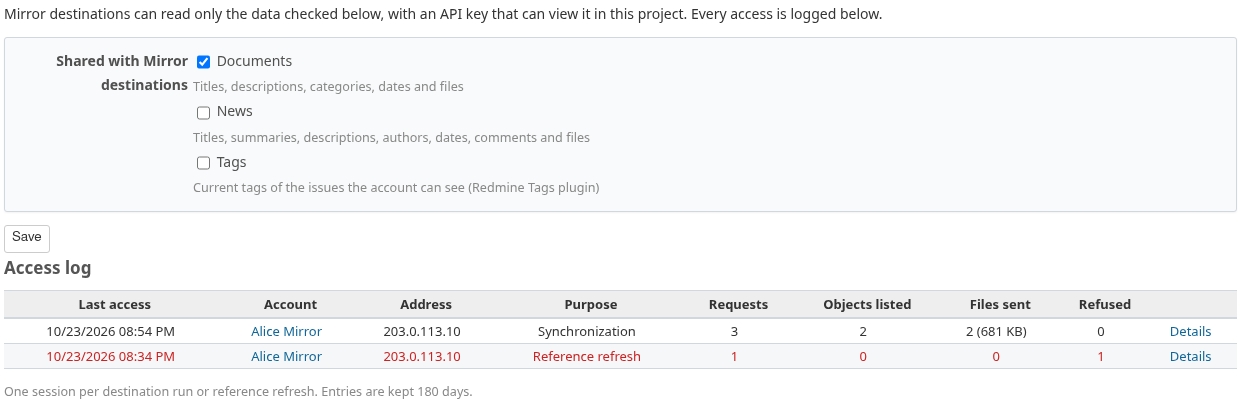
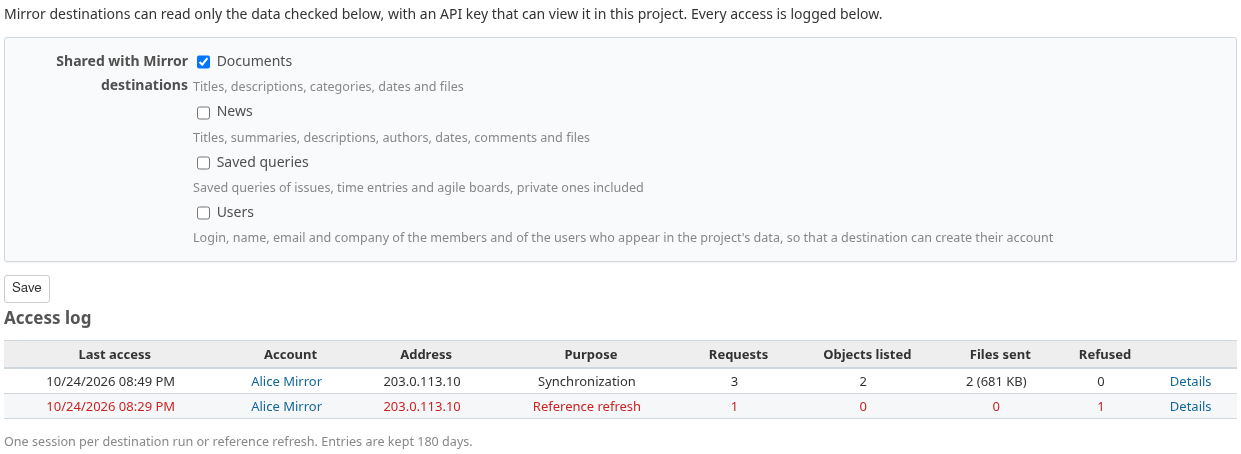
Release 1.0.0-beta.32: accounts from source users, and default correspondences
The administrator of a Mirror source chooses the data projects may share, destinations
can create registered accounts from the source's users, and administrators set default
correspondences for every project. The guides' screenshots are regenerated.

diff --git a/lib/redmine_mirror.rb b/lib/redmine_mirror.rb
@@ -19,7 +19,7 @@
 # lives here, not in lib/redmine_mirror/version.rb: Zeitwerk would require that file to
 # define RedmineMirror::Version, which would hide Redmine's Version model in this namespace.
 module RedmineMirror
-  VERSION = "1.0.0-beta.31"
+  VERSION = "1.0.0-beta.32"
   # Contract between Mirror and external adapters. Increase only on incompatible
   # changes to Adapters::Base, MappingTable or the registration rules.
   ADAPTER_API_VERSION = 1

diff --git a/README.md b/README.md
@@ -18,7 +18,7 @@ Document Mirror setup, operation, extension points or validation evidence.
 
 # <img src="assets/images/synchronisation-des-donnees-64.png" width="64" height="64" alt=""> Redmine Mirror
 
-![Version](https://img.shields.io/badge/Version-1.0.0--beta.31-orange)
+![Version](https://img.shields.io/badge/Version-1.0.0--beta.32-orange)
 ![Destination tested](https://img.shields.io/badge/Destination_tested-5.1_%7C_6.1-blue)
 ![Source tested](https://img.shields.io/badge/Source_tested-4.0_%7C_4.2_%7C_5.0_%7C_6.1-blue)
 ![Database tested](https://img.shields.io/badge/Database_tested-SQLite_3-blue)
@@ -32,7 +32,7 @@ existing destination project, through the destination REST API and native models
 
 Use it to migrate projects to a new instance, or to keep a regularly updated secondary
 copy. Each project has its own connection, mappings, schedule, history and conflicts.
-Version **1.0.0-beta.31** is a pre-release for testing before 1.0.0, not a stable release.
+Version **1.0.0-beta.32** is a pre-release for testing before 1.0.0, not a stable release.
 
 ## Features
 
@@ -47,7 +47,7 @@ Version **1.0.0-beta.31** is a pre-release for testing before 1.0.0, not a stabl
 | Issue hierarchy | Parents, including parents imported by another project |
 | Issue watchers | Mapped active users who can see the issue |
 | Issue custom fields | Existing compatible local fields, list value mappings, history |
-| Users | Identity mappings and anonymization; no account is created |
+| Users | Identity mappings and anonymization; registered accounts created from a Mirror source when the administrator allows it |
 | Wiki | Pages with every version, authors, dates, parents and attachments |
 | Members | Users, locked accounts and groups with mapped roles; additive |
 | Documents | Title, description, category, date and files; the source shares them (Mirror source) |
@@ -107,7 +107,7 @@ these rules in full: data sent, setup, credit, security and limits.
   the Documents, News, Tags, Agile and Saved queries modules, which Redmine's API does
   not cover (documents, news comments and files, tags, Scrum sprints, query definitions):
   install Mirror 1.0.0-beta.19 or later (1.0.0-beta.26 for News, 1.0.0-beta.28 for Tags,
-  1.0.0-beta.30 for Agile, 1.0.0-beta.31 for Saved queries) on the source too (on Redmine 4.0 to 4.2, Mirror then runs as a source only),
+  1.0.0-beta.30 for Agile, 1.0.0-beta.31 for Saved queries, 1.0.0-beta.32 for user accounts) on the source too (on Redmine 4.0 to 4.2, Mirror then runs as a source only),
   then share them through its **Mirror source** module
   (see [Mirror source](doc/CONFIGURATION.md#mirror-source-on-the-source-redmine)).
   Use the key of a dedicated, read-only account member of the source projects
@@ -116,7 +116,8 @@ these rules in full: data sent, setup, credit, security and limits.
 - With SQLite, keep the `timeout: 5000` of Redmine's sample `database.yml`: the worker and
   the web process write to the same database.
 - Existing destination projects, users, trackers, statuses, priorities, activities and
-  custom field definitions: Mirror maps them, it never creates them.
+  custom field definitions: Mirror maps them, it never creates them, except registered
+  user accounts from a Mirror source when the administrator allows it.
 
 Validated with SQLite: destinations **Redmine 6.1.4 and 5.1.13**, sources **Redmine
 4.0.3, 4.2, 5.0 and 6.1**. Other versions and databases are not validated yet. See the

diff --git a/RELEASING.md b/RELEASING.md
@@ -17,7 +17,7 @@ MERCHANTABILITY or FITNESS FOR A PARTICULAR PURPOSE. See LICENSE for details.
 # Preparing a release
 
 This document prepares publication; it does not automatically publish, push or deploy.
-The current source is **1.0.0-beta.31**, a pre-release. The repository root must be
+The current source is **1.0.0-beta.32**, a pre-release. The repository root must be
 this plugin directory, with `init.rb` directly at its root.
 
 ## Before tagging

diff --git a/SECURITY.md b/SECURITY.md
@@ -18,7 +18,7 @@ MERCHANTABILITY or FITNESS FOR A PARTICULAR PURPOSE. See LICENSE for details.
 
 ## Supported versions
 
-Mirror is currently in beta (1.0.0-beta.31). Security fixes are considered for the
+Mirror is currently in beta (1.0.0-beta.32). Security fixes are considered for the
 latest pre-release and, after 1.0.0, the latest maintained release.
 No response or remediation deadline is promised.
 

diff --git a/test/compatibility/README.md b/test/compatibility/README.md
@@ -18,7 +18,7 @@ MERCHANTABILITY or FITNESS FOR A PARTICULAR PURPOSE. See LICENSE for details.
 
 Minimum declared Redmine version: **5.0** as a destination, **4.0** as a source with
 Mirror source (source only). This is not a compatibility certification.
-Current plugin version: **1.0.0-beta.31**.
+Current plugin version: **1.0.0-beta.32**.
 
 Destination (Redmine running Mirror):
 

diff --git a/CHANGELOG.md b/CHANGELOG.md
@@ -16,7 +16,7 @@ MERCHANTABILITY or FITNESS FOR A PARTICULAR PURPOSE. See LICENSE for details.
 
 # Changelog
 
-## Unreleased
+## 1.0.0-beta.32 — 2026-10-25
 
 - **Mirror source**: the administrator chooses the data projects may share, among the
   data this Redmine can provide (Tags and Scrum sprints only with their plugin). Projects
